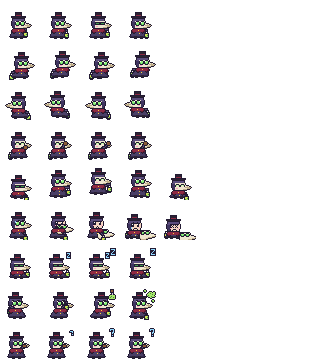
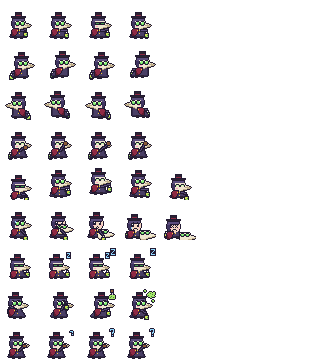
fix(arte): Médico — capa do Doutor só no ombro de trás, braço da frente visível
A capa do estágio 3 cobria a junta do braço que gesticula. Agora ela cai pelas
costas e para no centro da cabeça; o braço da frente (que sai em x >= centro + 1)
fica inteiro à mostra em idle, waving, jumping, failed, running e review.

diff --git a/herois/medico.py b/herois/medico.py
@@ -218,14 +218,18 @@ CHAPEU = [
     "KkkkkkkkkkkkkkK",
     ".KKKKKKKKKKKKK.",
 ]
-# capa curta sobre os ombros (abaixo do pescoço)
+# capa curta caída sobre o ombro de trás (abaixo do pescoço); para na coluna da âncora + 7 (x = centro da cabeça)
+# para não cobrir a junta do braço da frente, que sai em x >= centro + 1
 CAPA = ["." * 15] * 16 + [
-    "..KKKKKKKKKKK..",
-    ".KRRRRRRRRRRRK.",
-    "KRRRRRRYRRRRRrK",
-    "KrRRRRRRRRRRrrK",
-    ".KrrK.....KrK..",
-    "..KK.......K...",
+    "..KKKKKK.......",
+    ".KRRRRRK.......",
+    "KRRRRRYK.......",
+    "KRRRRRRK.......",
+    "KrRRRRK........",
+    "KrRRRRK........",
+    "KrrRRK.........",
+    "KrrrK..........",
+    ".KKK...........",
 ]
 DOUTOR = [CHAPEU[i] if i < len(CHAPEU) else CAPA[i] for i in range(len(CAPA))]
 ESTAGIOS = [
